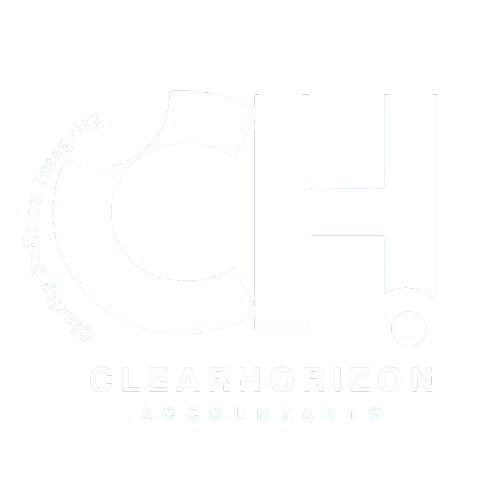
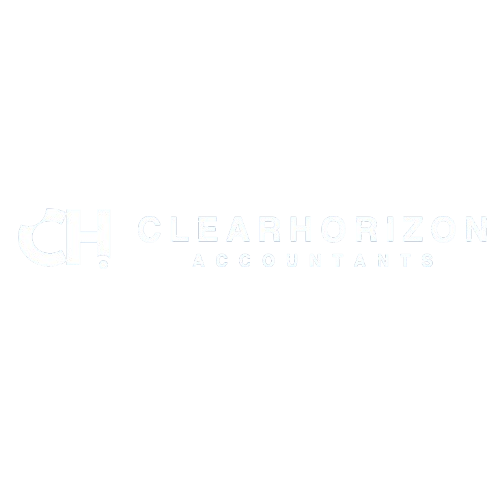
feat: changes in footer images navbar fonts

Changed region(s): [[0.48, 0.48, 0.51, 0.54], [0.93, 0.45, 0.96, 0.48]]

diff --git a/app/components/Footer.jsx b/app/components/Footer.jsx
@@ -199,28 +199,24 @@ const Footer = () => {
   };
 
   const checkCacheAndFetch = async () => {
-    // Check if data exists in localStorage
     const cachedData = localStorage.getItem("services");
     const lastFetched = localStorage.getItem("lastFetchedservices");
 
-    // If cached data exists and was fetched less than 5 minutes ago, use it
     if (cachedData && lastFetched) {
       const now = new Date().getTime();
       const timeDifference = now - parseInt(lastFetched, 10);
 
-      if (timeDifference < 0.5 * 60 * 1000) { // 5 minutes
+      if (timeDifference < 0.5 * 60 * 1000) {
         setServices(JSON.parse(cachedData));
         setLoading(false);
         return;
       }
     }
 
-    // If no valid cache, fetch from API
     try {
       const data = await fetchservices();
       setServices(data);
 
-      // Save data and timestamp to localStorage
       localStorage.setItem("services", JSON.stringify(data));
       localStorage.setItem("lastFetchedservices", new Date().getTime().toString());
     } catch (error) {
@@ -233,8 +229,8 @@ const Footer = () => {
   useEffect(() => {
     checkCacheAndFetch();
   }, []);
-
-  const renderSection = (title, items) => (
+  // console.log(services);
+  const renderSection = (title, items, itemUrls) => (
     isMobile ? (
       <Box sx={{ borderBottom: '3px solid #3498DB', mb: 2 }}>
         <Accordion
@@ -246,15 +242,24 @@ const Footer = () => {
             color: 'white',
             boxShadow: 'none',
           }}
-          >
-          <AccordionSummary expandIcon={<ExpandMoreIcon sx={{ color: 'white' }} />}>
+        >
+          <AccordionSummary expandIcon={<ExpandMoreIcon sx={{ color: 'black' }} />}>
             <Typography variant="h6" color="black">{title}</Typography>
           </AccordionSummary>
           <AccordionDetails>
-            {items.map((item) => (
-              <Typography key={item} variant="body2" color="black" sx={{ mt: 1, lineHeight: '1.5rem' }}>
-                {item}
+            {items.map((item, index) => (
+              <Typography key={item._id || item.title} variant="body2" color="black" sx={{ cursor: 'pointer', mt: 1, lineHeight: '1.5rem' }}>
+                {title === 'Our Services' ? (
+                  <Link key={index}
+                    href={`/services/${itemUrls[index]}`}
+                    sx={{ textDecoration: 'none', color: 'black' }}
+                    passHref
+                  >{item}</Link>
+                ) : (
+                  item
+                )}
               </Typography>
+
             ))}
           </AccordionDetails>
         </Accordion>
@@ -264,18 +269,29 @@ const Footer = () => {
         <Typography
           variant="h6"
           sx={{ mb: 2, borderBottom: '2px solid #3498DB', color: "black", display: 'inline-block' }}
-          >
+        >
           {title}
         </Typography>
-        {items.map((item) => (
-          <Typography key={item} color="black" variant="body2" sx={{ mt: 1, lineHeight: '1.5rem' }}>
-            {item}
+        {items.map((item, index) => (
+          <Typography key={item._id || item.name} color="black" variant="body2" sx={{ mt: 1, lineHeight: '1.5rem' }}>
+            {title === 'Our Services' && itemUrls ? (
+              <Link key={index}
+                href={`/services/${itemUrls[index]}`}
+                sx={{ textDecoration: 'none', color: 'black' }}
+                passHref
+              >
+                {item}
+              </Link>
+            ) : (
+              item
+            )}
           </Typography>
         ))}
+
       </Box>
     )
   );
-  
+
   return (
     <>
       <Box
@@ -297,15 +313,15 @@ const Footer = () => {
               <Image
                 src="/footer/footerfull.png"
                 alt="Company Logo"
-                width={140}
+                width={250}
                 height={40}
                 style={{ objectFit: 'contain' }}
               />
             </Box>
             <Typography variant="body2" sx={{ lineHeight: 1.8 }}>
-            Empowering individuals and businesses through expert accounting and financial guidance.            </Typography>
+              Empowering individuals and businesses through expert accounting and financial guidance.            </Typography>
           </Grid>
-          <Grid item xs={12} md={3}>{renderSection('Our Services', services.slice(0,15).map(service => service.title.replace(/([\u2700-\u27BF]|[\uE000-\uF8FF]|[\uD83C-\uDBFF\uDC00-\uDFFF]|[\uFE00-\uFE0F]|\u200D|\u2600-\u26FF|\u2700-\u27BF)/g, '')))}</Grid>
+          <Grid item xs={12} md={3}>{renderSection('Our Services', services.slice(0, 15).map(service => service.title.replace(/([\u2700-\u27BF]|[\uE000-\uF8FF]|[\uD83C-\uDBFF\uDC00-\uDFFF]|[\uFE00-\uFE0F]|\u200D|\u2600-\u26FF|\u2700-\u27BF)/g, '')), services.slice(0, 15).map(service => service._id))}</Grid>
           <Grid item xs={12} md={3}>{renderSection('Who We Help', footerLinks.help)}</Grid>
           <Grid item xs={12} md={3}>{renderSection('Resources', footerLinks.resources)}</Grid>
         </Grid>
@@ -362,3 +378,28 @@ const Footer = () => {
 };
 
 export default Footer;
+
+
+// coming array
+// Array(6)
+// 0
+// :
+// {_id: '67f032798fee0a2e5dd40758', title: '📘 Bookkeeping', description: 'Accurate records, simplified finances.\nWe offer co…te scrambling during reporting periods or audits.', image: 'https://res.cloudinary.com/deaixklt6/image/upload/v1745454074/uploads/ujmi3iqpgfg2fbhk8xib.jpg', createdAt: '2025-04-04T19:26:49.540Z', …}
+// 1
+// :
+// {_id: '67f032988fee0a2e5dd4075b', title: '📊 Financial Reporting', description: 'Know where you stand, anytime.\nWe prepare clear, p…just accurate, but actionable when you need them.', image: 'https://res.cloudinary.com/deaixklt6/image/upload/v1745455030/uploads/b0xqidi9woiourlqpn9s.jpg', createdAt: '2025-04-04T19:27:20.087Z', …}
+// 2
+// :
+// {_id: '67f032c18fee0a2e5dd4075e', title: '📈 Management Reporting', description: 'Turn your numbers into strategy.\nOur management re…r goals, and adjust your strategies in real time.', image: 'https://res.cloudinary.com/deaixklt6/image/upload/v1745455046/uploads/w10mkey3dno411cuddoe.jpg', createdAt: '2025-04-04T19:28:01.868Z', …}
+// 3
+// :
+// {_id: '67f032e38fee0a2e5dd40761', title: '🧭 Corporate Planning & Budgeting', description: 'Plan confidently. Grow strategically.\nWe help busi…tigate risks and align resources well in advance.', image: 'https://res.cloudinary.com/deaixklt6/image/upload/v1745455149/uploads/aeexvskekwdaa5gckkyl.jpg', createdAt: '2025-04-04T19:28:35.755Z', …}
+// 4
+// :
+// {_id: '67f033088fee0a2e5dd40764', title: '💳 Receivables & Payables Management', description: 'Healthy cash flow, simplified.\nWe manage your inco…elationships and avoidable interest or penalties.', image: 'https://res.cloudinary.com/deaixklt6/image/upload/v1745463027/uploads/aanmgljlfjcrpezwbiih.jpg', createdAt: '2025-04-04T19:29:12.516Z', …}
+// 5
+// :
+// {_id: '680988f746d0f857dcef8c0b', title: 'Dashboard Reporting - Creation and Management', description: 'Our Dashboard Reporting service is designed to tra…ion & Efficiency\n✅ User Access & Role-Based Views', image: 'https://res.cloudinary.com/deaixklt6/image/upload/v1745455350/uploads/hkbcvazzuqkg7q6onpc0.jpg', createdAt: '2025-04-24T00:42:31.486Z', …}
+// length
+// :
+// 6

diff --git a/app/components/Navbar.jsx b/app/components/Navbar.jsx
@@ -693,7 +693,7 @@ const Navbar = ({ isDarkMode, setIsDarkMode }) => {
   }
 
   return (
-    <nav className={`fixed w-full px-8 xs:px-4 backdrop-blur-xs sm:px-10 lg:px-12 xl:px-[10%] py-4 flex items-center justify-between z-50 h-20 transition-all
+    <nav className={`fixed w-full px-8 xs:px-4 backdrop-blur-xs sm:px-10 lg:px-12 xl:px-[10%]  py-4 flex items-center justify-between z-50 h-20 transition-all
       ${(isScroll && isSinglePage) || (isScroll && !isSinglePage)
         ? "bg-white bg-opacity-100 dark:shadow-white/20"
         : "bg-transparent"
@@ -704,10 +704,11 @@ const Navbar = ({ isDarkMode, setIsDarkMode }) => {
         <img
           src={isScroll ? '/navbar/dark/bg1dark.png' : '/navbar/bg1white.png'}
           alt="Clear Horizon Logo"
-          className="h-14 sm:h-16 md:h-20 w-auto max-w-[14rem] sm:max-w-[12rem] md:max-w-[14rem] ml-[-10px] sm:ml-[-20px] md:ml-[-24px] cursor-pointer transition-all duration-300 object-contain"
+          className="h-[10rem] sm:h-[12rem] md:h-[12rem] lg:h-[16rem] xl:h-[16rem] w-auto max-w-[30rem] sm:max-w-[18rem] md:max-w-[24rem] lg:max-w-[30rem] xl:max-w-[32rem] ml-[-0.5rem] sm:ml-[-1rem] md:ml-[-1.5rem] mt-3 cursor-pointer transition-all duration-300 object-contain"
           loading="lazy"
         />
       </Link>
+
 
 
       {/* Desktop Navigation */}
@@ -731,7 +732,7 @@ const Navbar = ({ isDarkMode, setIsDarkMode }) => {
         <button onClick={handleOpenModal}
           className={`hidden md:flex items-center gap-2 px-4 py-1.5 sm:px-5 sm:py-2 rounded-full font-Ovo border transition shadow-sm text-sm sm:text-base
             ${isScroll ? 'text-[#1F2943] border-black hover:bg-gray-100' : 'text-white border-white hover:bg-white hover:bg-opacity-10'}`}>
-          Get in Touch
+          Get A Quote
           <Image
             src={isScroll ? assets.arrow_icon : assets.arrow_icon_dark}
             alt='Arrow'

diff --git a/app/admin/login/page.jsx b/app/admin/login/page.jsx
@@ -11,7 +11,7 @@ const AdminLogin = () => {
 
   const handleSubmit = (e) => {
     e.preventDefault();
-    console.log(process.env.ADMIN_EMAIL , process.env.ADMIN_PASSWORD );
+    // console.log(process.env.ADMIN_EMAIL , process.env.ADMIN_PASSWORD );
     // In production, use proper authentication
     if (email === process.env.NEXT_PUBLIC_ADMIN_EMAIL && password === process.env.NEXT_PUBLIC_ADMIN_PASSWORD) {
       localStorage.setItem("isAdmin", "true");

diff --git a/lib/mongodb.js b/lib/mongodb.js
@@ -4,7 +4,7 @@ const connectDB = async () => {
   try {
     if (mongoose.connection.readyState === 0) {
       await mongoose.connect(process.env.MONGODB_URI);
-      console.log('MongoDB connected- dev nabeel');
+      // console.log('MongoDB connected- dev nabeel');
     }
   } catch (error) {
     console.error('MongoDB connection error:', error);

diff --git a/app/blogs/page.js b/app/blogs/page.js
@@ -63,7 +63,7 @@ const Page = () => {
     }
     return response.json();
   }, []);
-  console.log(blogs);
+  // console.log(blogs);
   const checkCacheAndFetch = useCallback(async () => {
     const cachedData = localStorage.getItem("blogs");
     const lastFetched = localStorage.getItem("lastFetched");

diff --git a/app/components/Contact.jsx b/app/components/Contact.jsx
@@ -24,7 +24,7 @@ const Contact = () => {
             setResult("Form Submitted Successfully");
             event.target.reset();
         } else {
-            console.log("Error", data);
+            // console.log("Error", data);
             setResult(data.message);
         }
     };

diff --git a/app/components/page-components/ContactModal.jsx b/app/components/page-components/ContactModal.jsx
@@ -86,7 +86,7 @@ const ContactModal = ({ closeModal }) => {
 
     const onSubmit = (e) => {
         e.preventDefault();
-        console.log("Message sent successfully!");
+        // console.log("Message sent successfully!");
     };
 
     return (
